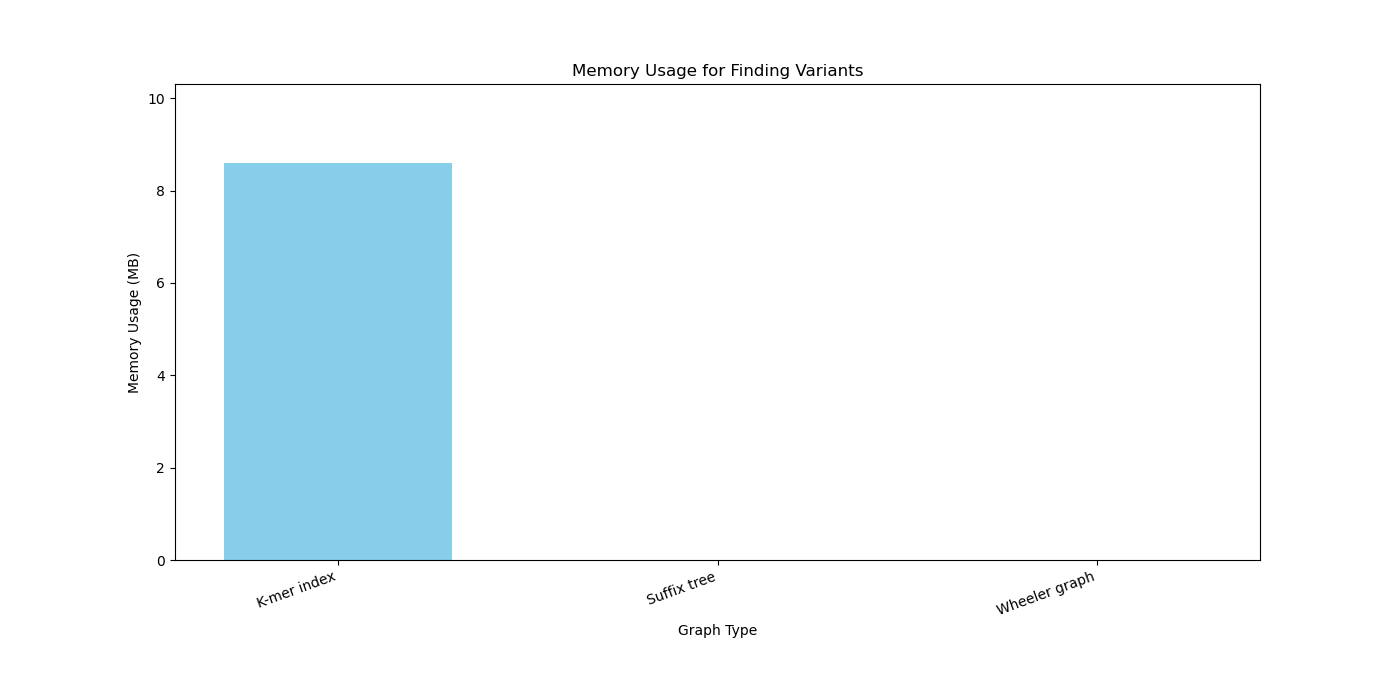
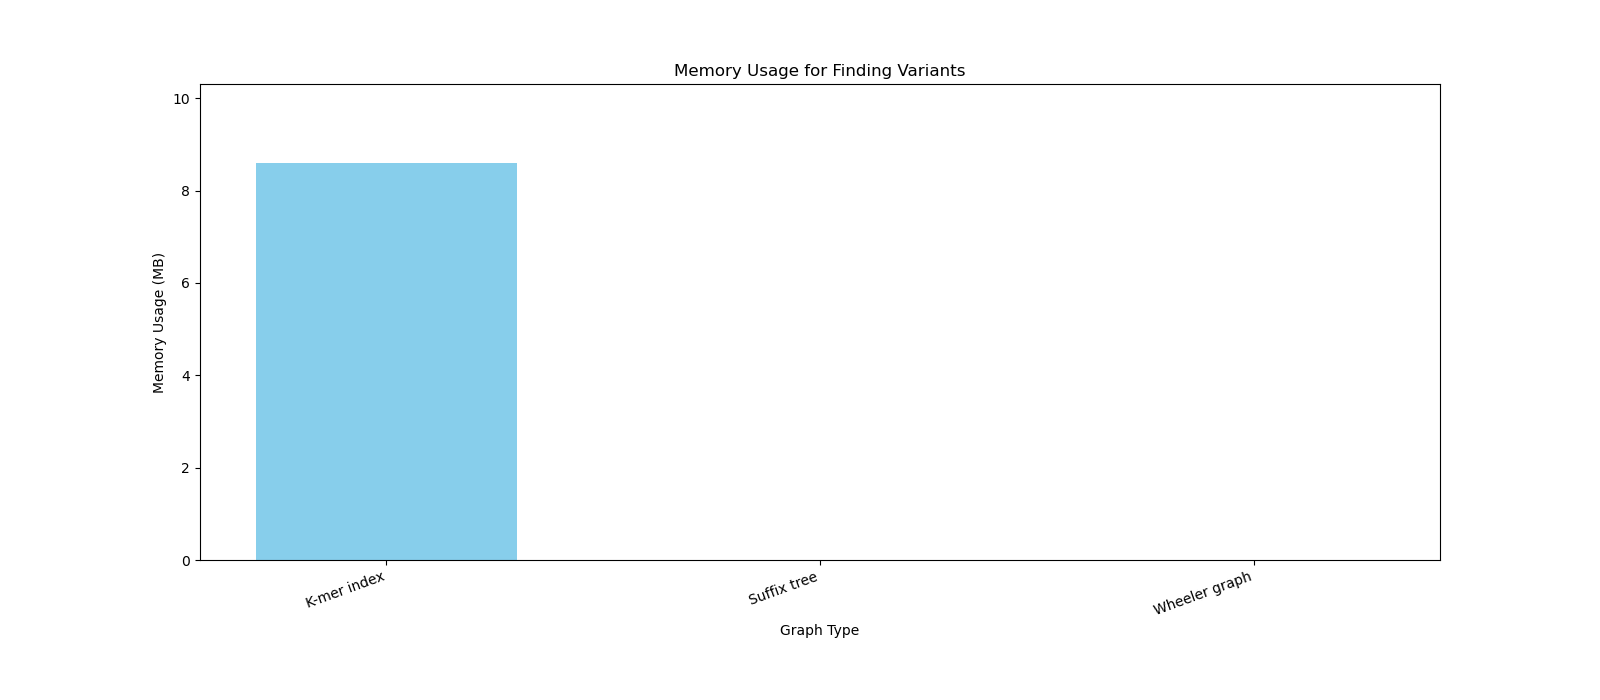
graphs

diff --git a/benchmark_graphs.py b/benchmark_graphs.py
@@ -17,7 +17,7 @@ execution_time_plot = [t if t is not None else 0 for t in execution_time]
 
 bar_width = 0.6
 
-plt.figure(figsize=(14, 7))
+plt.figure(figsize=(16, 7))
 plt.bar(structures, memory_usage_plot, color='skyblue', width=bar_width)
 plt.ylabel("Memory Usage (MB)")
 plt.xlabel("Graph Type")
